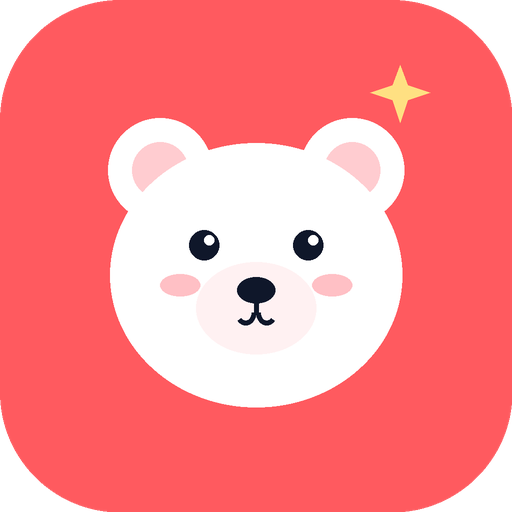
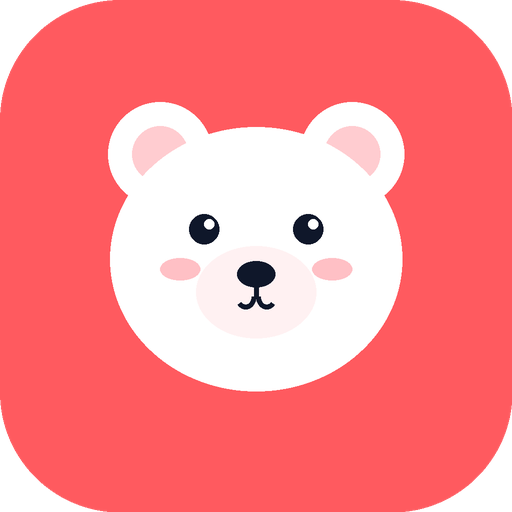
ui optimization

diff --git a/frontend/js/components/filters.js b/frontend/js/components/filters.js
@@ -318,39 +318,6 @@ export function renderFiltersDrawer(facets = {}) {
         `;
       })()}
 
-      <!-- Materials -->
-      <div class="filter-group">
-        <div class="filter-group-title">
-          <span>🪵 Матеріал</span>
-          ${state.filters.materials.length ? `<span class="filter-selected-count">(${state.filters.materials.length})</span>` : ''}
-        </div>
-        <div class="filter-options-list">
-          ${materials.map(mat => `
-            <label class="custom-checkbox">
-              <input type="checkbox" class="filter-mat-cb" value="${mat}" ${state.filters.materials.includes(mat) ? 'checked' : ''}>
-              <span>${mat.charAt(0).toUpperCase() + mat.slice(1)}</span>
-            </label>
-          `).join('')}
-        </div>
-      </div>
-
-      <!-- Skills Developed -->
-      ${skills.length > 0 ? `
-        <div class="filter-group" style="border-bottom: none;">
-          <div class="filter-group-title">
-            <span>🎯 Розвиток навичок</span>
-            ${state.filters.skill ? `<button class="filter-clear-link" onclick="window.app.clearSkillFilter()">Скинути</button>` : ''}
-          </div>
-          <div class="filter-options-list">
-            ${skills.map(sk => `
-              <label class="custom-checkbox">
-                <input type="radio" name="skill_filter" value="${sk}" ${state.filters.skill === sk ? 'checked' : ''} class="filter-skill-rb">
-                <span>${sk}</span>
-              </label>
-            `).join('')}
-          </div>
-        </div>
-      ` : ''}
     </div>
 
     <!-- Drawer Sticky Action Footer -->
@@ -378,21 +345,9 @@ export function renderFiltersDrawer(facets = {}) {
     });
   });
 
-  document.querySelectorAll('.filter-mat-cb').forEach(cb => {
-    cb.addEventListener('change', (e) => {
-      state.toggleArrayFilter('materials', e.target.value);
-    });
-  });
-
   document.querySelectorAll('.filter-brand-cb').forEach(cb => {
     cb.addEventListener('change', (e) => {
       state.toggleArrayFilter('brands', e.target.value);
-    });
-  });
-
-  document.querySelectorAll('.filter-skill-rb').forEach(rb => {
-    rb.addEventListener('change', (e) => {
-      state.setFilter('skill', e.target.value);
     });
   });
 
@@ -435,9 +390,7 @@ export function getActiveFiltersCount() {
   let count = 0;
   if (state.filters.in_stock) count++;
   if (state.filters.age_groups && state.filters.age_groups.length) count += state.filters.age_groups.length;
-  if (state.filters.materials && state.filters.materials.length) count += state.filters.materials.length;
   if (state.filters.brands && state.filters.brands.length) count += state.filters.brands.length;
-  if (state.filters.skill) count++;
   if (state.filters.min_price != null || state.filters.max_price != null) count++;
   return count;
 }
@@ -505,14 +458,6 @@ export function renderActiveFilterChips() {
     });
   });
 
-  // Materials
-  (state.filters.materials || []).forEach(mat => {
-    chips.push({
-      label: `🪵 ${mat}`,
-      remove: () => state.toggleArrayFilter('materials', mat)
-    });
-  });
-
   // Brands
   (state.filters.brands || []).forEach(b => {
     chips.push({
@@ -520,14 +465,6 @@ export function renderActiveFilterChips() {
       remove: () => state.toggleArrayFilter('brands', b)
     });
   });
-
-  // Skill
-  if (state.filters.skill) {
-    chips.push({
-      label: `🎯 ${state.filters.skill}`,
-      remove: () => state.setFilter('skill', null)
-    });
-  }
 
   // Price Range
   if (state.filters.min_price != null || state.filters.max_price != null) {

diff --git a/frontend/index.html b/frontend/index.html
@@ -9,10 +9,10 @@
   <link rel="preconnect" href="https://fonts.gstatic.com" crossorigin>
   <link href="https://fonts.googleapis.com/css2?family=Outfit:wght@400;500;600;700;800&family=Plus+Jakarta+Sans:wght@400;500;600;700&display=swap" rel="stylesheet">
   <!-- Favicons & App Icons -->
-  <link rel="icon" type="image/svg+xml" href="/favicon.svg">
-  <link rel="icon" type="image/png" sizes="32x32" href="/favicon-32x32.png">
-  <link rel="icon" type="image/png" sizes="16x16" href="/favicon-16x16.png">
-  <link rel="apple-touch-icon" sizes="180x180" href="/apple-touch-icon.png">
+  <link rel="icon" type="image/svg+xml" href="/favicon.svg?v=2">
+  <link rel="icon" type="image/png" sizes="32x32" href="/favicon-32x32.png?v=2">
+  <link rel="icon" type="image/png" sizes="16x16" href="/favicon-16x16.png?v=2">
+  <link rel="apple-touch-icon" sizes="180x180" href="/apple-touch-icon.png?v=2">
   <link rel="manifest" href="/site.webmanifest">
   <meta name="theme-color" content="#FF5A5F">
 
@@ -72,14 +72,7 @@
           </div>
         </div>
 
-        <div class="hero-actions">
-          <a href="#catalog" class="btn btn-primary btn-lg" onclick="document.getElementById('catalog').scrollIntoView({behavior: 'smooth'})">
-            Всі іграшки каталогу 🚀
-          </a>
-          <button class="btn btn-glass btn-lg" onclick="window.app.filterByBestsellers()">
-            ⭐ Топ-хіти продажів
-          </button>
-        </div>
+
       </div>
 
       <div class="hero-showcase" id="hero-showcase-container">
@@ -126,17 +119,6 @@
         </div>
 
         <div class="catalog-controls">
-          <!-- Mobile Categories Button -->
-          <button id="btn-toggle-mobile-categories" class="btn btn-outline btn-catalog-ctrl btn-mobile-cats" aria-label="Категорії" onclick="window.app.toggleCategoriesDrawer()">
-            <span class="icon">📁</span><span>Категорії</span>
-          </button>
-
-          <!-- Filter Trigger Button (Desktop & Mobile) -->
-          <button id="btn-toggle-filters" class="btn btn-outline btn-catalog-ctrl btn-filter-trigger" aria-label="Фільтри" onclick="window.app.toggleFilters()">
-            <span class="icon">⚡</span><span>Фільтри</span>
-            <span class="filter-count-badge hidden">0</span>
-          </button>
-
           <!-- Sorting Dropdown -->
           <div class="sort-wrapper">
             <label for="sort-select" class="sort-label">Сортування:</label>

diff --git a/frontend/admin.html b/frontend/admin.html
@@ -7,10 +7,10 @@
   <link rel="preconnect" href="https://fonts.googleapis.com">
   <link rel="preconnect" href="https://fonts.gstatic.com" crossorigin>
   <!-- Favicons & App Icons -->
-  <link rel="icon" type="image/svg+xml" href="/favicon.svg">
-  <link rel="icon" type="image/png" sizes="32x32" href="/favicon-32x32.png">
-  <link rel="icon" type="image/png" sizes="16x16" href="/favicon-16x16.png">
-  <link rel="apple-touch-icon" sizes="180x180" href="/apple-touch-icon.png">
+  <link rel="icon" type="image/svg+xml" href="/favicon.svg?v=2">
+  <link rel="icon" type="image/png" sizes="32x32" href="/favicon-32x32.png?v=2">
+  <link rel="icon" type="image/png" sizes="16x16" href="/favicon-16x16.png?v=2">
+  <link rel="apple-touch-icon" sizes="180x180" href="/apple-touch-icon.png?v=2">
   <link rel="manifest" href="/site.webmanifest">
   <meta name="theme-color" content="#FF5A5F">
 

diff --git a/frontend/css/components.css b/frontend/css/components.css
@@ -771,6 +771,10 @@
   border-bottom: 1px solid var(--border-light);
 }
 
+.filter-group:last-child {
+  border-bottom: none;
+}
+
 .filter-group-title {
   font-size: 13px;
   font-weight: 800;

diff --git a/scripts/generate_favicons.py b/scripts/generate_favicons.py
@@ -12,48 +12,45 @@ svg_content = '''<svg xmlns="http://www.w3.org/2000/svg" viewBox="0 0 512 512" w
       <stop offset="100%" stop-color="#E03E48" />
     </linearGradient>
     <filter id="shadow" x="-10%" y="-10%" width="120%" height="130%">
-      <feDropShadow dx="0" dy="12" stdDeviation="16" flood-color="#7A0008" flood-opacity="0.25" />
+      <feDropShadow dx="0" dy="6" stdDeviation="10" flood-color="#7A0008" flood-opacity="0.2" />
     </filter>
   </defs>
 
   <!-- Squircle Base -->
   <rect width="512" height="512" rx="120" ry="120" fill="url(#bgGrad)" />
 
-  <!-- Playful Sparkle top right -->
-  <path d="M 400 65 Q 400 95 430 95 Q 400 95 400 125 Q 400 95 370 95 Q 400 95 400 65 Z" fill="#FFE082" />
-
   <!-- Teddy Bear Face Group -->
   <g filter="url(#shadow)">
     <!-- Left Ear -->
-    <circle cx="160" cy="170" r="52" fill="#FFFFFF" />
-    <circle cx="160" cy="170" r="28" fill="#FFCCD0" />
+    <circle cx="160" cy="154" r="52" fill="#FFFFFF" />
+    <circle cx="160" cy="154" r="28" fill="#FFCCD0" />
 
     <!-- Right Ear -->
-    <circle cx="352" cy="170" r="52" fill="#FFFFFF" />
-    <circle cx="352" cy="170" r="28" fill="#FFCCD0" />
+    <circle cx="352" cy="154" r="52" fill="#FFFFFF" />
+    <circle cx="352" cy="154" r="28" fill="#FFCCD0" />
 
     <!-- Head -->
-    <ellipse cx="256" cy="275" rx="146" ry="132" fill="#FFFFFF" />
+    <ellipse cx="256" cy="259" rx="146" ry="132" fill="#FFFFFF" />
 
     <!-- Eyes -->
-    <circle cx="204" cy="245" r="15" fill="#0F172A" />
-    <circle cx="209" cy="240" r="5" fill="#FFFFFF" />
+    <circle cx="204" cy="229" r="15" fill="#0F172A" />
+    <circle cx="209" cy="224" r="5" fill="#FFFFFF" />
 
-    <circle cx="308" cy="245" r="15" fill="#0F172A" />
-    <circle cx="313" cy="240" r="5" fill="#FFFFFF" />
+    <circle cx="308" cy="229" r="15" fill="#0F172A" />
+    <circle cx="313" cy="224" r="5" fill="#FFFFFF" />
 
     <!-- Cheeks (Blush) -->
-    <ellipse cx="180" cy="285" rx="20" ry="11" fill="#FFB3B8" opacity="0.85" />
-    <ellipse cx="332" cy="285" rx="20" ry="11" fill="#FFB3B8" opacity="0.85" />
+    <ellipse cx="180" cy="269" rx="20" ry="11" fill="#FFB3B8" opacity="0.85" />
+    <ellipse cx="332" cy="269" rx="20" ry="11" fill="#FFB3B8" opacity="0.85" />
 
     <!-- Muzzle / Snout -->
-    <ellipse cx="256" cy="308" rx="60" ry="46" fill="#FFF1F2" />
+    <ellipse cx="256" cy="292" rx="60" ry="46" fill="#FFF1F2" />
 
     <!-- Nose -->
-    <path d="M 238 290 C 238 280, 274 280, 274 290 C 274 302, 256 308, 256 308 C 256 308, 238 302, 238 290 Z" fill="#0F172A" />
+    <path d="M 238 274 C 238 264, 274 264, 274 274 C 274 286, 256 292, 256 292 C 256 292, 238 286, 238 274 Z" fill="#0F172A" />
 
     <!-- Mouth -->
-    <path d="M 256 308 L 256 318 M 238 320 Q 256 334 256 318 Q 256 334 274 320" fill="none" stroke="#0F172A" stroke-width="5" stroke-linecap="round" stroke-linejoin="round" />
+    <path d="M 256 292 L 256 302 M 238 304 Q 256 318 256 302 Q 256 318 274 304" fill="none" stroke="#0F172A" stroke-width="5" stroke-linecap="round" stroke-linejoin="round" />
   </g>
 </svg>
 '''
@@ -70,51 +67,42 @@ img = Image.new("RGBA", (size, size), (0, 0, 0, 0))
 draw = ImageDraw.Draw(img)
 
 # Squircle background
-# Using rounded_rectangle
 draw.rounded_rectangle([0, 0, size, size], radius=240, fill=(255, 90, 95, 255))
 
-# Sparkle top-right
-# Diamond star
-star_pts = [
-    (800, 130), (815, 170), (860, 185), (815, 200),
-    (800, 245), (785, 200), (740, 185), (785, 170)
-]
-draw.polygon(star_pts, fill=(255, 224, 130, 255))
-
-# Teddy Bear Coordinates (scaled by 2 from 512)
+# Teddy Bear Coordinates (centered and scaled by 2 from 512)
 # Ears
-# Left ear outer (320, 340, r=104)
-draw.ellipse([320 - 104, 340 - 104, 320 + 104, 340 + 104], fill=(255, 255, 255, 255))
-draw.ellipse([320 - 56, 340 - 56, 320 + 56, 340 + 56], fill=(255, 204, 208, 255))
+# Left ear outer (320, 308, r=104)
+draw.ellipse([320 - 104, 308 - 104, 320 + 104, 308 + 104], fill=(255, 255, 255, 255))
+draw.ellipse([320 - 56, 308 - 56, 320 + 56, 308 + 56], fill=(255, 204, 208, 255))
 
-# Right ear outer (704, 340, r=104)
-draw.ellipse([704 - 104, 340 - 104, 704 + 104, 340 + 104], fill=(255, 255, 255, 255))
-draw.ellipse([704 - 56, 340 - 56, 704 + 56, 340 + 56], fill=(255, 204, 208, 255))
+# Right ear outer (704, 308, r=104)
+draw.ellipse([704 - 104, 308 - 104, 704 + 104, 308 + 104], fill=(255, 255, 255, 255))
+draw.ellipse([704 - 56, 308 - 56, 704 + 56, 308 + 56], fill=(255, 204, 208, 255))
 
-# Head (512, 550, rx=292, ry=264)
-draw.ellipse([512 - 292, 550 - 264, 512 + 292, 550 + 264], fill=(255, 255, 255, 255))
+# Head (512, 518, rx=292, ry=264)
+draw.ellipse([512 - 292, 518 - 264, 512 + 292, 518 + 264], fill=(255, 255, 255, 255))
 
-# Eyes (408, 490) & (616, 490), r=30
-draw.ellipse([408 - 30, 490 - 30, 408 + 30, 490 + 30], fill=(15, 23, 42, 255))
-draw.ellipse([418 - 10, 480 - 10, 418 + 10, 480 + 10], fill=(255, 255, 255, 255))
+# Eyes (408, 458) & (616, 458), r=30
+draw.ellipse([408 - 30, 458 - 30, 408 + 30, 458 + 30], fill=(15, 23, 42, 255))
+draw.ellipse([418 - 10, 448 - 10, 418 + 10, 448 + 10], fill=(255, 255, 255, 255))
 
-draw.ellipse([616 - 30, 490 - 30, 616 + 30, 490 + 30], fill=(15, 23, 42, 255))
-draw.ellipse([626 - 10, 480 - 10, 626 + 10, 480 + 10], fill=(255, 255, 255, 255))
+draw.ellipse([616 - 30, 458 - 30, 616 + 30, 458 + 30], fill=(15, 23, 42, 255))
+draw.ellipse([626 - 10, 448 - 10, 626 + 10, 448 + 10], fill=(255, 255, 255, 255))
 
-# Cheeks (360, 570) & (664, 570), rx=40, ry=22
-draw.ellipse([360 - 40, 570 - 22, 360 + 40, 570 + 22], fill=(255, 179, 184, 210))
-draw.ellipse([664 - 40, 570 - 22, 664 + 40, 570 + 22], fill=(255, 179, 184, 210))
+# Cheeks (360, 538) & (664, 538), rx=40, ry=22
+draw.ellipse([360 - 40, 538 - 22, 360 + 40, 538 + 22], fill=(255, 179, 184, 210))
+draw.ellipse([664 - 40, 538 - 22, 664 + 40, 538 + 22], fill=(255, 179, 184, 210))
 
-# Snout (512, 616), rx=120, ry=92
-draw.ellipse([512 - 120, 616 - 92, 512 + 120, 616 + 92], fill=(255, 241, 242, 255))
+# Snout (512, 584), rx=120, ry=92
+draw.ellipse([512 - 120, 584 - 92, 512 + 120, 584 + 92], fill=(255, 241, 242, 255))
 
-# Nose (512, 580), rx=38, ry=26
-draw.ellipse([512 - 38, 580 - 26, 512 + 38, 580 + 26], fill=(15, 23, 42, 255))
+# Nose (512, 548), rx=38, ry=26
+draw.ellipse([512 - 38, 548 - 26, 512 + 38, 548 + 26], fill=(15, 23, 42, 255))
 
 # Mouth lines
-draw.line([(512, 606), (512, 630)], fill=(15, 23, 42, 255), width=10)
-draw.arc([470, 600, 512, 650], start=0, end=140, fill=(15, 23, 42, 255), width=10)
-draw.arc([512, 600, 554, 650], start=40, end=180, fill=(15, 23, 42, 255), width=10)
+draw.line([(512, 574), (512, 598)], fill=(15, 23, 42, 255), width=10)
+draw.arc([470, 568, 512, 618], start=0, end=140, fill=(15, 23, 42, 255), width=10)
+draw.arc([512, 568, 554, 618], start=40, end=180, fill=(15, 23, 42, 255), width=10)
 
 # Generate multi-size icons
 sizes = {
